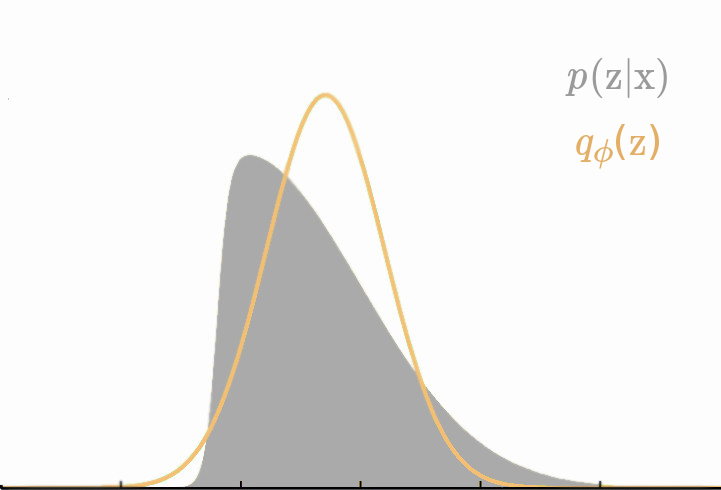
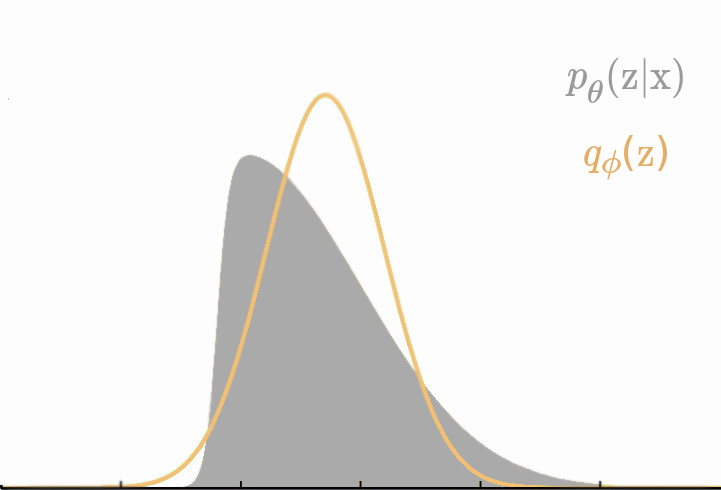
Start the derivation of ELBO

Changed region(s): [[0.7933, 0.2449, 0.9459, 0.3673], [0.7933, 0.1224, 0.9459, 0.2143]]

diff --git a/_includes/head.html b/_includes/head.html
@@ -12,7 +12,9 @@
     <link rel="stylesheet" href="//maxcdn.bootstrapcdn.com/font-awesome/4.3.0/css/font-awesome.min.css">
     <script type="text/x-mathjax-config">
     MathJax.Hub.Config({
-        TeX: { extensions: ["color.js"] },
+        TeX: { extensions: ["color.js"],
+               equationNumbers: { autoNumber: "AMS" }
+        },
         tex2jax: {inlineMath: [['$','$'], ['\\(','\\)']]}
     });
     </script>

diff --git a/_sass/_layout.scss b/_sass/_layout.scss
@@ -149,6 +149,7 @@ font-size: 36px;
     }
 }
 .post-content {
+text-align: justify;
 h2 {
 font-size: 42px;
 @include media-query($on-laptop) {
@@ -157,6 +158,7 @@ font-size: 28px;
     }
 h3 {
 font-size: 30px;
+line-height: 3;
 @include media-query($on-laptop) {
 font-size: 22px;
         }

diff --git a/_lablogs/variational_inference.md b/_lablogs/variational_inference.md
@@ -1,0 +1,125 @@
+---
+layout: post
+title: Variational Inference
+description: introduction and derivation of ELBO maximisation
+topic: inference
+img: /img/vi-intro.png
+---
+
+Probabilisitc machine learning casts the problem of learning in an inference
+task where the observed data $\mathbb{x}$ is used to learn the distribution of
+latent variables $\mathbb{z}$ which can represent unknown parameters or
+unobservable quantities in the problem domain. We are interested in
+finding the posterior over the latent variables
+
+$$
+p(\mathbb{z} | \mathbb{x}) =
+  \frac{p(\mathbb{x} | \mathbb{z})p(\mathbb{z})}
+        {p(\mathbb{x})}
+$$
+
+The evidence $p(\mathbb{x})$, referred to as marginal likelihood as well,
+
+$$
+p(\mathbb{x}) =
+  \int_{\boldsymbol{Z}}
+        {p(\mathbb{x}, \mathbb{z})}
+  \mathrm{d}\mathbb{z}
+$$
+
+is often an intractible high-dimensional integral which does not have a closed
+form solution. Bayesian inference methods attempt to resolve this problem
+by relying on techniques such as sampling or approximations. Variational
+inference is a method for approximate Bayesian inference where the main idea
+is to approximate the distribution of interest, in our case
+$p(\mathbb{z} | \mathbb{x})$, with another simpler distribution
+$q(\mathbb{z})$ and make sure it is similar enough to
+$p(\mathbb{z} | \mathbb{x})$. In fact, we consider an entire family of
+approximate distributions $q_{\phi}(\mathbb{z})$ parameterised by $\phi$. In
+order to make our derivation more general we will also assume that the posterior
+is parameterised as well by $\theta$, $p _ \theta (\mathbb{z} | \mathbb{x})$.
+
+In the plot below, $\color{#d49f55}{q_{\phi}(z)}$ is a Gaussian distribution
+which is fitted to approximate the unknown posterior $\color{#8a8a8a}
+{p(\mathbb{x} | \mathbb{z})}$.
+
+<div class="img_row">
+    <img class="col three" src="/img/vi-intro.png"/>
+</div>
+
+<div class="col three caption">
+  <font color="#d49f55">$q_{\phi}(z)$</font> is a Gaussian distribution which is
+  fitted to approximate the unknown posterior
+  <font color="#8a8a8a">$p(\mathbb{x} | \mathbb{z})$</font>
+</div>
+
+In order to fit $q_{\phi}(\mathbb{z})$ we need a distance measure
+$\mathcal{D}$, which we should minimise, between the approximate distribution
+and the true underlying one. Thus, $\mathcal{D}$ should take 2 distributions
+as input arguments and provide a single positive number which resembles the
+distance between the two. The branch of mathematics which deals with
+optimising higher-order functions (i.e. functions which take functions as
+their input) is called calculus of variations, hence the name *variational
+inference*. We could use a variety of distance operators [<sup>1</sup>](#ref1)
+and KL-divergence is the most widely used, defined as:
+
+$$
+\begin{align}
+\mathcal{D} _ {KL} (q || p)
+&= \int_{-\infty}^{\infty}q(x)log\frac{q(x)}{p(x)}dx = \nonumber \\
+\nonumber \\
+&= \mathbb{E} _ {x \sim q(x)}[\log q(x) - \log p(x)] = \label{eq:kl-exp}\\
+\nonumber \\
+&= H(q, p) - H(q) \label{eq:kl-ent}
+\end{align}
+$$
+
+According to equation $(\ref{eq:kl-ent})$, $\mathcal{D} _ {KL}$ compares how
+much information $q$ and $p$ convey together, $H(p,q)$, with the
+information conveyed only by $q$, $H(q)$. Thus a key property is that
+$\mathcal{D} _ {KL} \geq 0$ with $\mathcal{D} _ {KL} = 0 \iff H(q, p) = H(q)$.
+The KL-divergence of two distributions is 0 iff $q$ and $p$ reveal no
+more information than just $q$ ; in other words $q$ is "equal" to $p$, so
+to speak. Therefore, in order to solve our inference problem we need to optimise
+
+$$
+\begin{align}
+\phi^*= \underset{\phi}{\arg\min}
+        \,\mathcal{D} _ {KL}
+          \left(q_{\phi}(\mathbb{z}) ||
+          p _ {\theta}(\mathbb{z} | \mathbb{x})\right)
+\end{align}
+$$
+
+This problem does not have a closed form solution so we need to apply some
+tricks in order to come up with a stochastic optimisation procedure.
+
+### Evidence Lower Bound (ELBO) Derivation
+
+Let's start from equation $(\ref{eq:kl-exp})$:
+
+$$
+\begin{align}
+\,\mathcal{D} _ {KL}
+    \left(q _ {\phi}(\mathbb{z}) ||
+    p _ {\theta}(\mathbb{z} | \mathbb{x})\right)
+&= \mathbb{E} _ {z \sim q _ {\phi}(\mathbb{z})}
+    [\log q _ {\phi}(\mathbb{z}) -
+    \underbrace{\log p _ {\theta}(\mathbb{z} | \mathbb{x})}_
+      {\propto \, {p _ {\theta}(\mathbb{x}|\mathbb{z}) p _ {\theta}(\mathbb{z})}}] = \nonumber \\
+\end{align}
+$$
+
+
+#### References
+1. <a href="https://arxiv.org/abs/1610.09033" target="+blank" name="ref1">
+     Operator Variational Inference
+   </a>
+2. test
+
+
+
+
+{% comment %}
+<br>
+{% endcomment %}
